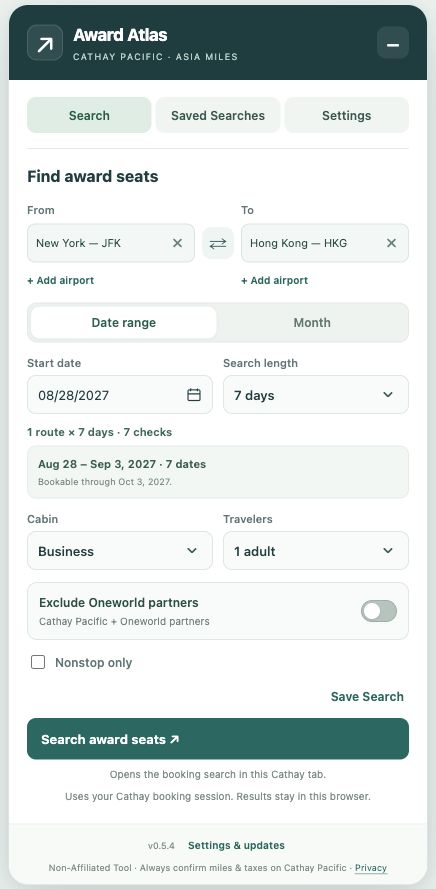
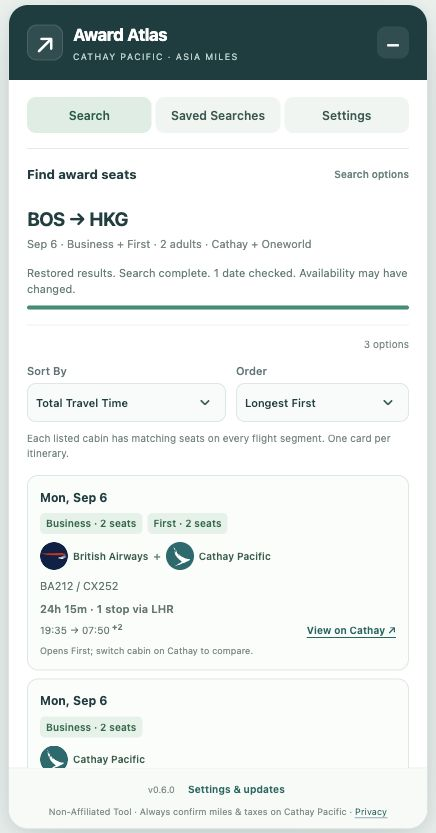
Publish Award Atlas v0.6.0

diff --git a/index.html b/index.html
@@ -32,8 +32,8 @@
           </a>
           <a class="text-link" href="#install">Installation guide</a>
         </div>
-        <p class="download-meta">Free · v0.5.4 · Desktop Chrome on Mac &amp; Windows</p>
-        <p class="store-note">Compare up to two departure and two arrival airports, with airline icons, a Cathay-only filter and Saved Searches. Install manually from GitHub Releases.</p>
+        <p class="download-meta">Free · v0.6.0 · Desktop Chrome on Mac &amp; Windows</p>
+        <p class="store-note">Choose multiple cabins, compare up to four airport routes, and sort by time, duration, stops or cabin class. Install manually from GitHub Releases.</p>
         <dl class="quick-facts">
           <div><dt>1 / 7 / 14 / 30</dt><dd>days, or a whole month</dd></div>
           <div><dt>2 × 2 airports</dt><dd>compare up to four routes</dd></div>
@@ -41,15 +41,15 @@
         </dl>
       </div>
       <figure class="product-preview">
-        <div class="preview-topline"><span>THE LITTLE PANEL WITH BIG PLANS</span><span>v0.5.4</span></div>
-        <img class="panel-image" src="assets/panel.jpg?v=0.5.4" width="436" height="889" alt="Award Atlas’s compact search panel with aligned airport controls, the updated start-date selector, cabin choices, and the Exclude Oneworld partners toggle.">
+        <div class="preview-topline"><span>THE LITTLE PANEL WITH BIG PLANS</span><span>v0.6.0</span></div>
+        <img class="panel-image" src="assets/panel.jpg?v=0.6.0" width="436" height="833" alt="Award Atlas result cards with multiple cabin matches, sorting controls, total travel time and arrival-day offsets.">
         <figcaption>Extension panel in a local preview. Search directly on your Cathay tab.</figcaption>
       </figure>
     </section>
 
     <section class="benefits wrap" aria-label="Features">
       <article><span class="feature-number">01</span><h2>A little more flexibility.</h2><p>Search a single route for 1, 7, 14 or 30 days, or a calendar month. Compare up to two airports on each side over 1 or 7 days, with at most 28 route/date checks.</p></article>
-      <article><span class="feature-number">02</span><h2>Stay on Cathay.</h2><p>See one-day route comparisons or a calendar: green for CX options, blue for Oneworld or mixed itineraries. Save your airports, dates and filters to rerun later.</p></article>
+      <article><span class="feature-number">02</span><h2>Stay on Cathay.</h2><p>See matching cabins, total travel time and arrival-day offsets on each result. Sort in either direction by departure, arrival, duration, stops or cabin class, and save your search choices.</p></article>
       <article><span class="feature-number">03</span><h2>Keep it in your browser.</h2><p>Search requests go directly to Cathay. Saved searches and results stay locally in your browser, with no extension analytics or search backend. GitHub supplies public update metadata.</p></article>
     </section>
 

diff --git a/README.md b/README.md
@@ -10,7 +10,7 @@ Download the release ZIP asset, not GitHub’s Source code archive. Extract it (
 
 Choose airports with city/country/name/IATA suggestions, then cabin, adults, and 1/7/14/30 days or a month for a single route. Select up to two airports per field to compare routes over 1 or 7 days (at most 28 route/date checks). Keep the Cathay tab open. Save Search stores named configurations for later use; Saved Searches lets you run, rename, edit or delete them.
 
-Version 0.5.4 includes Oneworld partner itineraries returned by Cathay by default. Turn on **Exclude Oneworld Partners** for Cathay-only results. Circular airline icons, including Hawaiian, identify each distinct carrier on mixed itineraries, with a generic Oneworld fallback where needed.
+Version 0.6.0 includes Oneworld partner itineraries returned by Cathay by default. Turn on **Exclude Oneworld Partners** for Cathay-only results. Circular airline icons, including Hawaiian, identify each distinct carrier on mixed itineraries, with a generic Oneworld fallback where needed.
 
 ## Update
 
@@ -28,7 +28,14 @@ Cathay website changes, session expiry and limits can interrupt searches. Unchec
 
 Not affiliated with Cathay Pacific or Asia Miles. [MIT License](LICENSE). This repository hosts the public website, JSON version policy and release assets.
 
-## New in v0.5.4
+## New in v0.6.0
+
+- Select multiple cabin classes, or the mutually exclusive All Cabins option.
+- Sort by departure, arrival, travel time, stops, or cabin class in both directions, with unknown values last.
+- See every matching cabin on one itinerary card, Cathay's total travel time, and arrival-day offsets such as +1/+2.
+- Preserve saved cabin choices and sort settings; no extra date checks are added.
+
+## Included from v0.5.4
 
 - Keep the swap button aligned with the first airport row.
 - Keep the × icon at the same position in empty and selected airport fields.

diff --git a/CHANGELOG.md b/CHANGELOG.md
@@ -1,5 +1,12 @@
 # Changelog
 
+## 0.6.0 — 2026-10-08
+
+- Select multiple cabin classes, with mutually exclusive All Cabins and consistent title case. Saved searches and restored searches retain the selected cabins.
+- Sort matching itineraries by departure, arrival, total travel time, stops, or cabin class in either direction. Unknown values stay last.
+- Display all matching cabins per itinerary, total travel time from Cathay, and arrival calendar-day offsets such as +1 and +2. Multi-cabin selections do not add date checks or duplicate calendar counts.
+- Retain the existing green/blue calendar rule and omit mileage sorting because mileage prices are not captured.
+
 ## 0.5.4 — 2026-10-08
 
 - Replace the native start-date popup with a calendar that only offers the current year and next year, and disables dates outside the selected range’s booking window.
